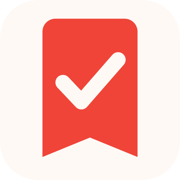
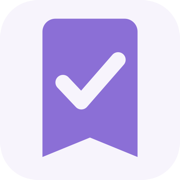
from orange to purple

diff --git a/resources/css/app.css b/resources/css/app.css
@@ -4,13 +4,12 @@
 
 @theme {
     --font-sans: "Instrument Sans", "Segoe UI", system-ui, sans-serif;
-    --color-brand: #f04438;
-    --color-brand-dark: #d9362c;
-    --color-warm-white: #fff9f5;
+    --color-brand: #8b6fd6;
+    --color-brand-dark: #7659c4;
+    --color-warm-white: #f7f4fc;
     --color-ink: #27313c;
     --color-muted: #71808f;
-    --color-selection: #dcecf8;
-    --color-selection-blue: #2f93df;
+    --color-selection: #eeeaf8;
 }
 
 :root {
@@ -25,14 +24,13 @@
     --line: #dfe3e6;
     --muted: #71808f;
     --ink: #27313c;
-    --brand: #f04438;
-    --brand-dark: #d9362c;
-    --warm-white: #fff9f5;
-    --blue: #2f93df;
-    --selection: #dcecf8;
+    --brand: #8b6fd6;
+    --brand-dark: #7659c4;
+    --warm-white: #f7f4fc;
+    --selection: #eeeaf8;
     --green: #72b58f;
     --green-dark: #4d9674;
-    --focus: 0 0 0 3px rgba(47, 147, 223, 0.32);
+    --focus: 0 0 0 3px rgba(139, 111, 214, 0.3);
     --shadow-sm: 0 1px 2px rgba(37, 49, 61, 0.14);
     --shadow-md: 0 16px 44px rgba(37, 49, 61, 0.2);
 }
@@ -111,7 +109,7 @@ button:disabled {
     color: #fff;
     background: var(--brand);
     border-color: var(--brand);
-    box-shadow: 0 7px 20px rgba(240, 68, 56, 0.21);
+    box-shadow: 0 7px 20px rgba(139, 111, 214, 0.24);
 }
 
 .ui-button--primary:hover:not(:disabled) {
@@ -217,9 +215,9 @@ button:disabled {
     padding: 40px 52px 34px;
     color: #fff;
     background:
-        radial-gradient(circle at 84% 16%, rgba(255, 242, 182, 0.5), transparent 30%),
-        radial-gradient(circle at 12% 84%, rgba(54, 125, 100, 0.62), transparent 35%),
-        linear-gradient(145deg, #4f9e79 0%, #78ba93 48%, #d6c875 100%);
+        radial-gradient(circle at 84% 16%, rgba(238, 231, 252, 0.52), transparent 30%),
+        radial-gradient(circle at 12% 84%, rgba(104, 71, 182, 0.56), transparent 35%),
+        linear-gradient(145deg, #6847b6 0%, #8b6fd6 50%, #b6a4e7 100%);
 }
 
 .auth-story__wash {
@@ -248,7 +246,7 @@ button:disabled {
 
 .auth-brand svg,
 .auth-form-card__brand svg {
-    filter: drop-shadow(0 7px 16px rgba(37, 61, 48, 0.16));
+    filter: drop-shadow(0 7px 16px rgba(65, 43, 117, 0.2));
 }
 
 .auth-story__content {
@@ -291,7 +289,7 @@ button:disabled {
     border: 1px solid rgba(255, 255, 255, 0.4);
     border-radius: 15px;
     background: rgba(255, 255, 255, 0.87);
-    box-shadow: 0 26px 65px rgba(48, 86, 68, 0.26);
+    box-shadow: 0 26px 65px rgba(67, 47, 116, 0.28);
     backdrop-filter: blur(14px);
     transform: rotate(-1.2deg);
 }
@@ -301,7 +299,7 @@ button:disabled {
     justify-content: space-between;
     padding: 15px 18px;
     color: #fff;
-    background: rgba(63, 141, 103, 0.92);
+    background: rgba(118, 89, 196, 0.94);
     font-size: 0.82rem;
     font-weight: 700;
 }
@@ -501,7 +499,7 @@ button:disabled {
     border: 2px solid #fff;
     border-radius: 50%;
     color: #fff;
-    background: linear-gradient(145deg, #7189d2, #9c78b9);
+    background: linear-gradient(145deg, #7659c4, #a58dde);
     box-shadow: 0 1px 4px rgba(44, 54, 65, 0.22);
     font-size: 0.76rem;
     font-weight: 750;
@@ -804,7 +802,7 @@ button:disabled {
 }
 
 .nav-row.is-active {
-    border-left-color: var(--blue);
+    border-left-color: var(--brand);
     background: var(--selection);
 }
 
@@ -829,7 +827,7 @@ button:disabled {
 }
 
 .nav-icon--star {
-    color: #e16d64;
+    color: var(--brand);
 }
 
 .nav-count {
@@ -960,8 +958,8 @@ button:disabled {
 
 .folder-group.is-drop-target > .folder-row,
 .nav-item-wrap.is-drop-target {
-    background: #e8f2f8;
-    box-shadow: inset 3px 0 0 var(--blue);
+    background: #f1edfa;
+    box-shadow: inset 3px 0 0 var(--brand);
 }
 
 .folder-toggle span {
@@ -973,7 +971,7 @@ button:disabled {
 }
 
 .folder-icon {
-    color: #68a9d6;
+    color: #9380ca;
 }
 
 .row-more {
@@ -1200,14 +1198,14 @@ button:disabled {
 .task-row.is-dragging {
     z-index: 60;
     opacity: 0.92;
-    border-color: rgba(71, 142, 178, 0.5);
+    border-color: rgba(139, 111, 214, 0.52);
     box-shadow: 0 12px 30px rgba(39, 49, 60, 0.24);
     cursor: grabbing;
 }
 
 .task-row.is-drop-target {
-    border-color: var(--blue);
-    box-shadow: 0 0 0 2px rgba(71, 142, 178, 0.16), var(--shadow-sm);
+    border-color: var(--brand);
+    box-shadow: 0 0 0 2px rgba(139, 111, 214, 0.18), var(--shadow-sm);
 }
 
 .task-check {
@@ -1298,12 +1296,12 @@ button:disabled {
 }
 
 .task-star:hover {
-    color: #de7b72;
-    background: #fff4f2;
+    color: #9b82de;
+    background: #f5f1fc;
 }
 
 .task-star.is-starred {
-    color: #e1584d;
+    color: var(--brand);
 }
 
 .task-more-wrap {
@@ -1411,9 +1409,9 @@ button:disabled {
 
 /* Task details */
 .task-details {
-    --details-focus-border: #72b58f;
-    --details-focus-ring: 0 0 0 3px rgba(77, 150, 116, 0.22);
-    --details-focus-surface: #f4faf6;
+    --details-focus-border: #a18bdd;
+    --details-focus-ring: 0 0 0 3px rgba(139, 111, 214, 0.22);
+    --details-focus-surface: #f7f4fc;
     position: relative;
     z-index: 25;
     width: var(--details-width);
@@ -1549,8 +1547,8 @@ button:disabled {
 }
 
 .detail-field:focus-within:not(.is-disabled) {
-    color: var(--green-dark);
-    background: #fbfdfb;
+    color: var(--brand-dark);
+    background: var(--details-focus-surface);
 }
 
 .task-subtasks {
@@ -1644,9 +1642,9 @@ button:disabled {
 }
 
 .subtask-add:focus-within {
-    color: var(--green-dark);
+    color: var(--brand-dark);
     background: var(--details-focus-surface);
-    box-shadow: inset 3px 0 0 rgba(77, 150, 116, 0.62);
+    box-shadow: inset 3px 0 0 rgba(139, 111, 214, 0.62);
 }
 
 .subtask-add input:focus-visible {
@@ -1655,7 +1653,7 @@ button:disabled {
 
 .subtask-add button {
     color: #fff;
-    background: var(--blue);
+    background: var(--brand);
 }
 
 .subtask-add button:disabled {
@@ -1838,11 +1836,11 @@ button:disabled {
     border: 0;
     border-radius: 5px;
     color: #fff;
-    background: var(--blue);
+    background: var(--brand);
 }
 
 .comment-composer button:hover:not(:disabled) {
-    background: #247fbd;
+    background: var(--brand-dark);
 }
 
 .comment-composer button:disabled {
@@ -1914,15 +1912,15 @@ button:disabled {
     min-height: 44px;
     justify-self: center;
     padding: 0 24px;
-    border-color: var(--blue);
-    background: var(--blue);
-    box-shadow: 0 7px 20px rgba(47, 147, 223, 0.2);
+    border-color: var(--brand);
+    background: var(--brand);
+    box-shadow: 0 7px 20px rgba(139, 111, 214, 0.24);
     font-size: 0.88rem;
 }
 
 .details-save-button.ui-button--primary:hover:not(:disabled) {
-    border-color: #247fbd;
-    background: #247fbd;
+    border-color: var(--brand-dark);
+    background: var(--brand-dark);
 }
 
 .details-error {
@@ -2256,9 +2254,9 @@ button:disabled {
     .auth-form-side {
         padding: 36px 24px;
         background:
-            radial-gradient(circle at 94% 8%, rgba(240,68,56,0.1), transparent 31%),
-            radial-gradient(circle at 8% 94%, rgba(78,158,121,0.11), transparent 34%),
-            #fbfaf8;
+            radial-gradient(circle at 94% 8%, rgba(139,111,214,0.13), transparent 31%),
+            radial-gradient(circle at 8% 94%, rgba(182,164,231,0.17), transparent 34%),
+            #fbfafd;
     }
 
     .auth-form-card__brand {

diff --git a/resources/js/components/ui/logo.tsx b/resources/js/components/ui/logo.tsx
@@ -13,9 +13,9 @@ export function Logo({ size = 48, className }: LogoProps) {
             width={size}
             xmlns="http://www.w3.org/2000/svg"
         >
-            <rect fill="#fff9f5" height="166" rx="34" width="166" />
-            <path d="M39 29c0-6.627 5.373-12 12-12h64c6.627 0 12 5.373 12 12v116l-44-18-44 18V29Z" fill="#f04438" />
-            <path d="m58 76 17 18 34-39" fill="none" stroke="#fff9f5" strokeLinecap="round" strokeLinejoin="round" strokeWidth="14" />
+            <rect fill="#f7f4fc" height="166" rx="34" width="166" />
+            <path d="M39 29c0-6.627 5.373-12 12-12h64c6.627 0 12 5.373 12 12v116l-44-18-44 18V29Z" fill="#8b6fd6" />
+            <path d="m58 76 17 18 34-39" fill="none" stroke="#f7f4fc" strokeLinecap="round" strokeLinejoin="round" strokeWidth="14" />
         </svg>
     );
 }

diff --git a/resources/js/app.tsx b/resources/js/app.tsx
@@ -8,7 +8,7 @@ createInertiaApp({
         lazy: true,
     },
     progress: {
-        color: '#f04438',
+        color: '#8b6fd6',
     },
     strictMode: true,
 });

diff --git a/resources/views/app.blade.php b/resources/views/app.blade.php
@@ -3,7 +3,7 @@
     <head>
         <meta charset="utf-8">
         <meta name="viewport" content="width=device-width, initial-scale=1">
-        <meta name="theme-color" content="#f04438">
+        <meta name="theme-color" content="#8B6FD6">
 
         <title inertia>{{ config('app.name', 'My Fabulist') }}</title>
 

diff --git a/docs/frontend.md b/docs/frontend.md
@@ -164,15 +164,19 @@ editing its title saves on Enter or blur, and its row action deletes it.
 The task creation date appears directly above the footer actions. Recent dates
 use relative language, while older dates use a localized calendar date.
 The task-details footer uses an icon-only close action on the left, a slightly
-larger blue Save button in the center, and an icon-only delete action on the
+larger purple Save button in the center, and an icon-only delete action on the
 right.
-Task-detail form controls use a soft leaf-green focus ring and warm-neutral
-focused surface so keyboard focus stays visible without introducing a separate
-blue accent.
+Task-detail form controls use a soft purple focus ring and neutral-lilac focused
+surface so keyboard focus stays visible while matching the product identity.
 
 ## Visual style
 
 Use a friendly, lightweight visual style inspired by classic productivity applications.
+
+The primary identity color is light purple `#8B6FD6`. It is used for the logo,
+favicons, stars, selected navigation, focus treatments, progress feedback, and
+non-destructive primary actions. Red remains reserved for destructive actions,
+validation errors, and overdue states.
 
 The interface should feel:
 

diff --git a/development/scope.md b/development/scope.md
@@ -106,9 +106,9 @@ field. Lists may also remain ungrouped.
 
 - Use a responsive application shell with a folder/list sidebar and main task
   area. On narrow screens, navigation opens from a menu control.
-- Keep the interface calm, friendly, spacious, and minimal. Use warm neutral
-  surfaces, the coral product accent, clear typography, subtle motion, and
-  muted completed work.
+- Keep the interface calm, friendly, spacious, and minimal. Use neutral-lilac
+  surfaces, the light-purple `#8B6FD6` product accent, clear typography,
+  subtle motion, and muted completed work.
 - Pressing Enter in quick-add creates the task, clears the field, and keeps it
   focused after success. Failed saves retain enough context to recover.
 - Reordering should feel immediate. If persistence rejects stale state, the UI

diff --git a/AGENTS.md b/AGENTS.md
@@ -202,9 +202,9 @@ that materially expand the boilerplate's stack or maintenance burden.
   motion, sufficient contrast, and usable touch targets.
 - Keep Tailwind CSS 4 configuration CSS-first in `resources/css/app.css` and
   express reusable visual decisions as design tokens.
-- Use the project's coral accent and warm-neutral identity consistently. Avoid
-  dense dashboards, large data tables, Kanban-first layouts, and ornamental UI
-  that slows down capture.
+- Use the project's light-purple `#8B6FD6` accent and neutral-lilac identity
+  consistently. Avoid dense dashboards, large data tables, Kanban-first
+  layouts, and ornamental UI that slows down capture.
 - Do not add another component library or state-management framework without a
   demonstrated need and explicit approval.
 
